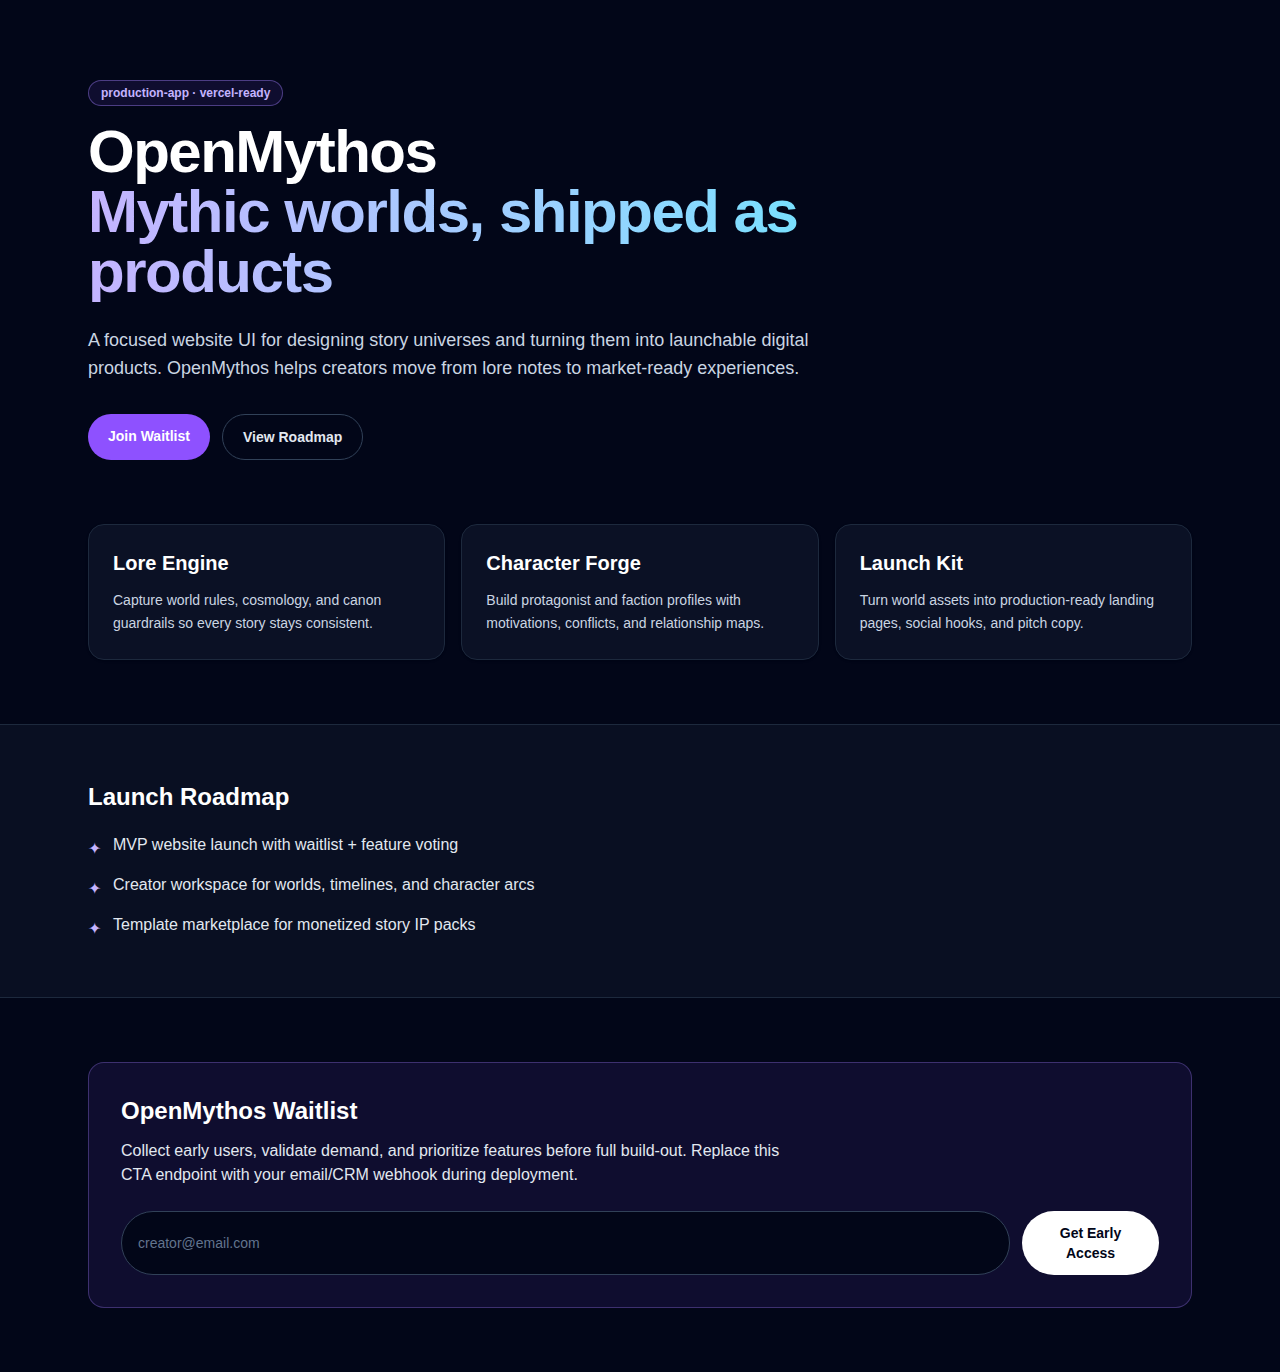
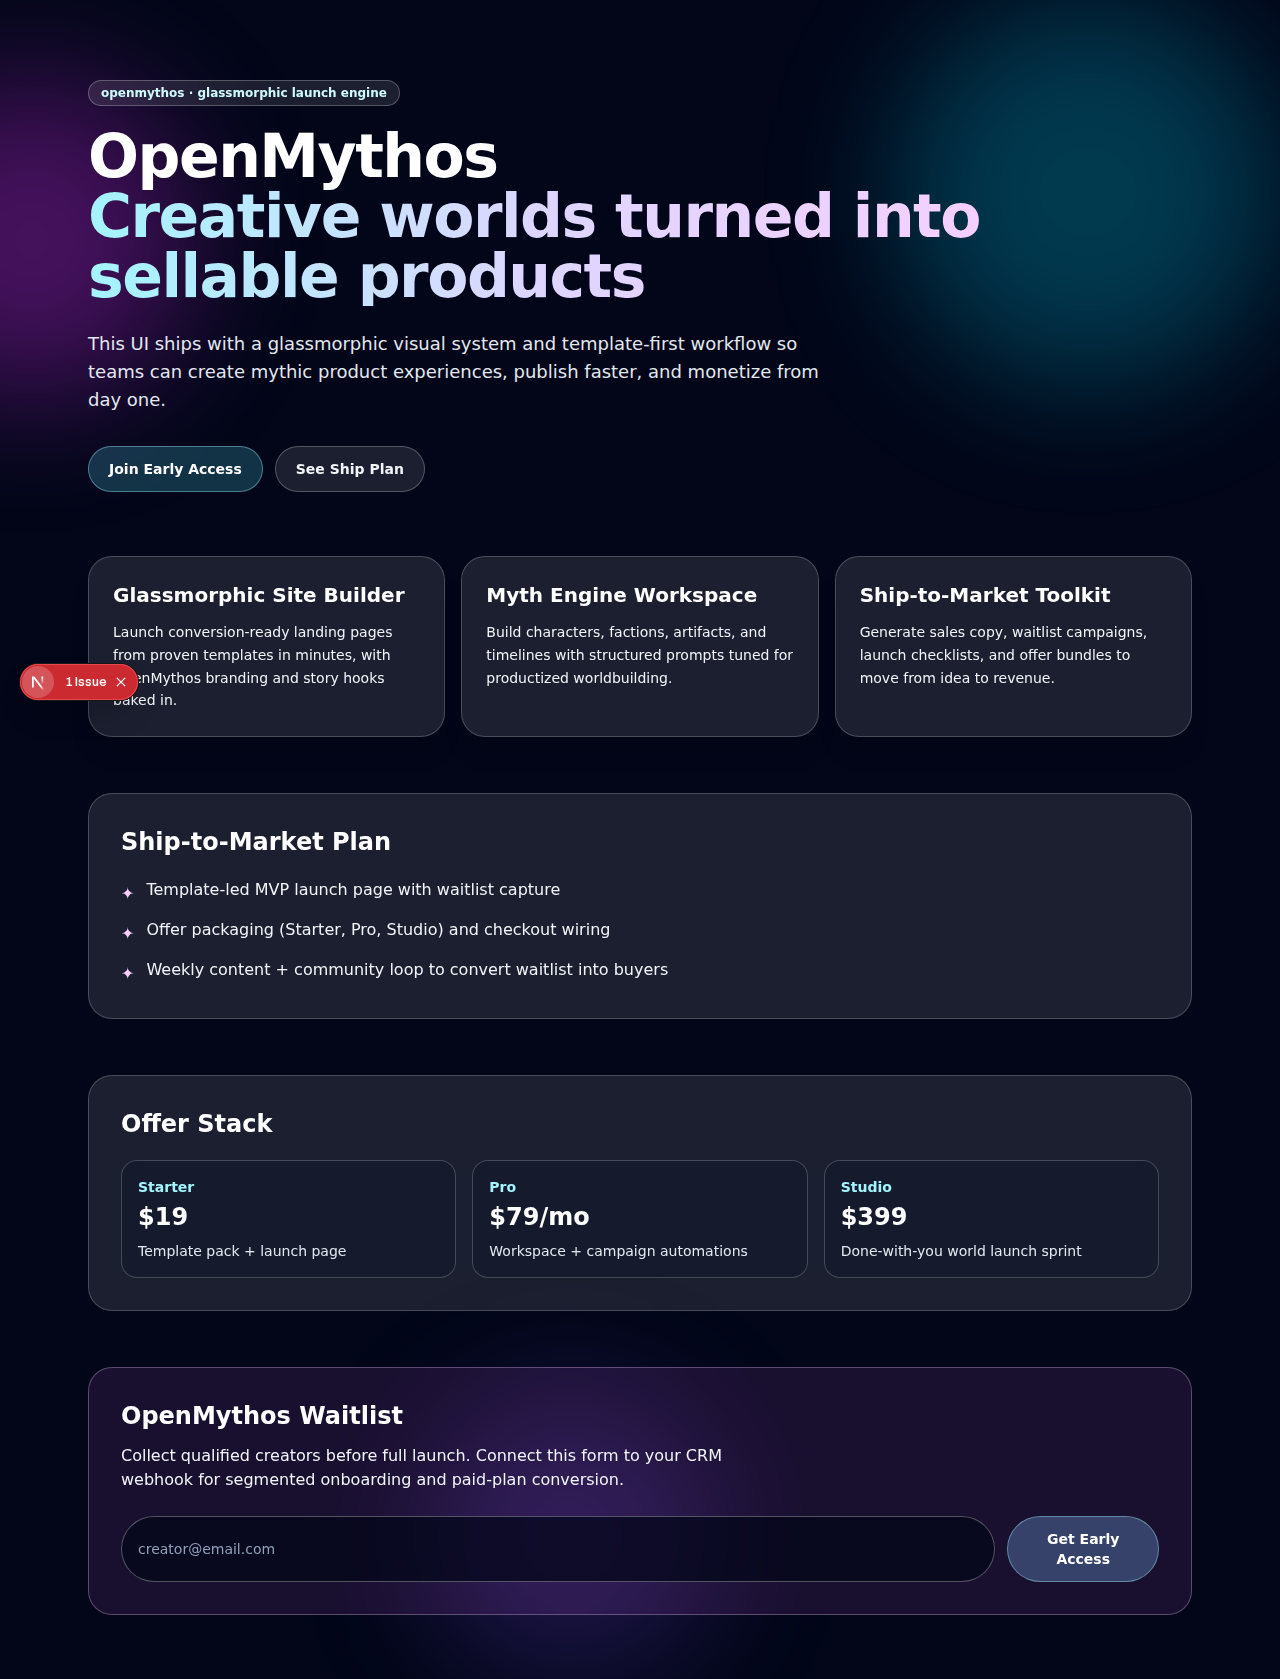
feat: harden pdf parsing guard and upgrade openmythos ship ui
Agent-Logs-Url: https://github.com/midnghtsapphire/revvel-standards/sessions/98872b5c-285b-4d9a-ac45-8e5aa6a054f4

Changed region(s): [[0.0, 0.0, 1.0, 1.0], [0.7812, 0.8571, 0.9062, 0.949]]

diff --git a/products/openmythos/app/page.tsx b/products/openmythos/app/page.tsx
@@ -1,105 +1,132 @@
-const pillars = [
+const featureCards = [
   {
-    title: "Lore Engine",
+    title: "Glassmorphic Site Builder",
     description:
-      "Capture world rules, cosmology, and canon guardrails so every story stays consistent.",
+      "Launch conversion-ready landing pages from proven templates in minutes, with OpenMythos branding and story hooks baked in.",
   },
   {
-    title: "Character Forge",
+    title: "Myth Engine Workspace",
     description:
-      "Build protagonist and faction profiles with motivations, conflicts, and relationship maps.",
+      "Build characters, factions, artifacts, and timelines with structured prompts tuned for productized worldbuilding.",
   },
   {
-    title: "Launch Kit",
+    title: "Ship-to-Market Toolkit",
     description:
-      "Turn world assets into production-ready landing pages, social hooks, and pitch copy.",
+      "Generate sales copy, waitlist campaigns, launch checklists, and offer bundles to move from idea to revenue.",
   },
 ];
 
-const roadmap = [
-  "MVP website launch with waitlist + feature voting",
-  "Creator workspace for worlds, timelines, and character arcs",
-  "Template marketplace for monetized story IP packs",
+const shipSteps = [
+  "Template-led MVP launch page with waitlist capture",
+  "Offer packaging (Starter, Pro, Studio) and checkout wiring",
+  "Weekly content + community loop to convert waitlist into buyers",
+];
+
+const monetization = [
+  { name: "Starter", price: "$19", value: "Template pack + launch page" },
+  { name: "Pro", price: "$79/mo", value: "Workspace + campaign automations" },
+  { name: "Studio", price: "$399", value: "Done-with-you world launch sprint" },
 ];
 
 export default function Home() {
   return (
-    <main className="min-h-screen bg-slate-950 text-slate-100">
-      <section className="mx-auto max-w-6xl px-6 pb-16 pt-20">
-        <p className="mb-4 inline-block rounded-full border border-violet-400/40 bg-violet-500/10 px-3 py-1 text-xs font-semibold text-violet-300">
-          production-app · vercel-ready
-        </p>
-        <h1 className="max-w-4xl text-4xl font-black tracking-tight text-white md:text-6xl">
+    <main className="relative min-h-screen overflow-hidden bg-slate-950 text-slate-100">
+      <div className="pointer-events-none absolute -left-32 top-20 h-80 w-80 rounded-full bg-fuchsia-500/30 blur-3xl" />
+      <div className="pointer-events-none absolute right-0 top-0 h-96 w-96 rounded-full bg-cyan-400/25 blur-3xl" />
+      <div className="pointer-events-none absolute bottom-0 left-1/3 h-72 w-72 rounded-full bg-violet-500/20 blur-3xl" />
+
+      <section className="relative mx-auto max-w-6xl px-6 pb-16 pt-20">
+        <div className="inline-flex rounded-full border border-white/25 bg-white/10 px-3 py-1 text-xs font-semibold text-cyan-100 backdrop-blur">
+          openmythos · glassmorphic launch engine
+        </div>
+        <h1 className="mt-5 max-w-4xl text-4xl font-black tracking-tight text-white md:text-6xl">
           OpenMythos
-          <span className="block bg-gradient-to-r from-violet-300 to-cyan-300 bg-clip-text text-transparent">
-            Mythic worlds, shipped as products
+          <span className="block bg-gradient-to-r from-cyan-200 via-violet-200 to-fuchsia-200 bg-clip-text text-transparent">
+            Creative worlds turned into sellable products
           </span>
         </h1>
-        <p className="mt-6 max-w-3xl text-lg text-slate-300">
-          A focused website UI for designing story universes and turning them into
-          launchable digital products. OpenMythos helps creators move from lore notes to
-          market-ready experiences.
+        <p className="mt-6 max-w-3xl text-lg text-slate-200">
+          This UI ships with a glassmorphic visual system and template-first workflow so teams can
+          create mythic product experiences, publish faster, and monetize from day one.
         </p>
         <div className="mt-8 flex flex-wrap gap-3">
           <a
             href="#waitlist"
-            className="rounded-full bg-violet-500 px-5 py-3 text-sm font-semibold text-white transition hover:bg-violet-400"
+            className="rounded-full border border-cyan-200/40 bg-cyan-300/20 px-5 py-3 text-sm font-semibold text-white backdrop-blur transition hover:bg-cyan-300/30"
           >
-            Join Waitlist
+            Join Early Access
           </a>
           <a
-            href="#roadmap"
-            className="rounded-full border border-slate-700 px-5 py-3 text-sm font-semibold text-slate-200 transition hover:border-slate-500"
+            href="#ship"
+            className="rounded-full border border-white/25 bg-white/10 px-5 py-3 text-sm font-semibold text-slate-100 backdrop-blur transition hover:bg-white/15"
           >
-            View Roadmap
+            See Ship Plan
           </a>
         </div>
       </section>
 
-      <section className="mx-auto grid max-w-6xl gap-4 px-6 pb-16 md:grid-cols-3">
-        {pillars.map((pillar) => (
+      <section className="relative mx-auto grid max-w-6xl gap-4 px-6 pb-14 md:grid-cols-3">
+        {featureCards.map((card) => (
           <article
-            key={pillar.title}
-            className="rounded-2xl border border-slate-800 bg-slate-900/70 p-6 shadow-sm"
+            key={card.title}
+            className="rounded-3xl border border-white/20 bg-white/10 p-6 shadow-xl backdrop-blur-md"
           >
-            <h2 className="text-xl font-bold text-white">{pillar.title}</h2>
-            <p className="mt-3 text-sm leading-relaxed text-slate-300">{pillar.description}</p>
+            <h2 className="text-xl font-bold text-white">{card.title}</h2>
+            <p className="mt-3 text-sm leading-relaxed text-slate-100">{card.description}</p>
           </article>
         ))}
       </section>
 
-      <section id="roadmap" className="border-y border-slate-800 bg-slate-900/50">
-        <div className="mx-auto max-w-6xl px-6 py-14">
-          <h2 className="text-2xl font-bold text-white">Launch Roadmap</h2>
-          <ul className="mt-5 space-y-3 text-slate-200">
-            {roadmap.map((item) => (
-              <li key={item} className="flex items-start gap-3">
-                <span className="mt-1 text-violet-300">✦</span>
-                <span>{item}</span>
+      <section id="ship" className="relative mx-auto max-w-6xl px-6 pb-14">
+        <div className="rounded-3xl border border-white/20 bg-white/10 p-8 backdrop-blur-md">
+          <h2 className="text-2xl font-bold text-white">Ship-to-Market Plan</h2>
+          <ul className="mt-5 space-y-3 text-slate-100">
+            {shipSteps.map((step) => (
+              <li key={step} className="flex items-start gap-3">
+                <span className="mt-1 text-fuchsia-200">✦</span>
+                <span>{step}</span>
               </li>
             ))}
           </ul>
         </div>
       </section>
 
-      <section id="waitlist" className="mx-auto max-w-6xl px-6 py-16">
-        <div className="rounded-2xl border border-violet-400/30 bg-violet-500/10 p-8">
+      <section className="relative mx-auto max-w-6xl px-6 pb-14">
+        <div className="rounded-3xl border border-white/20 bg-white/10 p-8 backdrop-blur-md">
+          <h2 className="text-2xl font-bold text-white">Offer Stack</h2>
+          <div className="mt-5 grid gap-4 md:grid-cols-3">
+            {monetization.map((tier) => (
+              <div
+                key={tier.name}
+                className="rounded-2xl border border-white/20 bg-slate-900/50 p-4"
+              >
+                <p className="text-sm font-semibold text-cyan-200">{tier.name}</p>
+                <p className="mt-1 text-2xl font-black text-white">{tier.price}</p>
+                <p className="mt-2 text-sm text-slate-200">{tier.value}</p>
+              </div>
+            ))}
+          </div>
+        </div>
+      </section>
+
+      <section id="waitlist" className="relative mx-auto max-w-6xl px-6 pb-16">
+        <div className="rounded-3xl border border-fuchsia-200/30 bg-fuchsia-400/10 p-8 backdrop-blur-md">
           <h2 className="text-2xl font-bold text-white">OpenMythos Waitlist</h2>
-          <p className="mt-3 max-w-2xl text-slate-200">
-            Collect early users, validate demand, and prioritize features before full build-out.
-            Replace this CTA endpoint with your email/CRM webhook during deployment.
+          <p className="mt-3 max-w-2xl text-slate-100">
+            Collect qualified creators before full launch. Connect this form to your CRM webhook for
+            segmented onboarding and paid-plan conversion.
           </p>
           <form className="mt-6 flex flex-col gap-3 sm:flex-row">
             <input
               type="email"
               aria-label="Email address"
               placeholder="creator@email.com"
-              className="w-full rounded-full border border-slate-700 bg-slate-950 px-4 py-3 text-sm text-white outline-none placeholder:text-slate-500 focus:border-violet-400"
+              className="w-full rounded-full border border-white/30 bg-slate-950/70 px-4 py-3 text-sm text-white outline-none placeholder:text-slate-400 focus:border-cyan-300"
             />
             <button
               type="submit"
               aria-label="Submit waitlist form"
-              className="rounded-full bg-white px-5 py-3 text-sm font-semibold text-slate-950 transition hover:bg-slate-200"
+              className="rounded-full border border-cyan-200/40 bg-cyan-300/20 px-5 py-3 text-sm font-semibold text-white backdrop-blur transition hover:bg-cyan-300/30"
             >
               Get Early Access
             </button>

diff --git a/tests/work-request-form-sync.test.js b/tests/work-request-form-sync.test.js
@@ -300,7 +300,11 @@ test('PDF pipeline batch dropdown exists with expected options', () => {
     'wr-auto-classify playbook guard missing pdf_batch_allowed set'
   );
   assert(
-    wf.includes('if final.get("Output Type") == "sellable-pdf" and pdf_batch_raw:'),
+    /if\s+final\.get\("Output Type"\)\s*==\s*"sellable-pdf"\s*:\s*\n\s*pdf_batch_raw\s*=\s*parse_form_section\(/.test(wf),
+    'wr-auto-classify should only parse PDF pipeline batch for sellable-pdf requests'
+  );
+  assert(
+    /if\s+final\.get\("Output Type"\)\s*==\s*"sellable-pdf"\s+and\s+pdf_batch_raw\s*:/.test(wf),
     'wr-auto-classify should only evaluate PDF pipeline batch values for sellable-pdf requests'
   );
   assert(

diff --git a/products/openmythos/GO_TO_MARKET.md b/products/openmythos/GO_TO_MARKET.md
@@ -1,0 +1,39 @@
+# Go-to-Market — OpenMythos
+
+## Positioning
+
+**OpenMythos** is a glassmorphic template-driven launch engine for creators and studios who want to turn worldbuilding concepts into sellable digital offers.
+
+## Ideal Customer
+
+- Indie worldbuilders and narrative creators
+- Small game/story studios shipping new IP
+- Creative agencies packaging lore-driven campaigns
+
+## Revenue Model
+
+| Offer | Price | Value |
+|---|---|---|
+| Starter | $19 one-time | Template pack + launch page |
+| Pro | $79/month | Myth workspace + automation prompts |
+| Studio | $399 sprint | Done-with-you ship-to-market setup |
+
+## 30-Day Launch Plan
+
+1. **Week 1:** Launch waitlist page + announce in creator communities.
+2. **Week 2:** Publish 2 showcase templates and 1 case-study landing page.
+3. **Week 3:** Sell first 25 Starter packs with time-boxed pricing.
+4. **Week 4:** Convert waitlist to Pro beta and collect testimonials.
+
+## Primary Acquisition Channels
+
+- SEO content for worldbuilding + launch templates
+- Creator communities (Reddit, Discord, X)
+- Partner cross-promos with writing/game dev tool creators
+
+## Core Metrics
+
+- Waitlist conversion rate
+- Starter pack sales volume
+- Pro trial-to-paid conversion
+- Monthly recurring revenue

diff --git a/products/openmythos/README.md b/products/openmythos/README.md
@@ -1,6 +1,6 @@
 # OpenMythos
 
-OpenMythos is a production-app website UI scaffold for launching a mythic worldbuilding product.
+OpenMythos is a production-app website UI for launching a sellable mythic worldbuilding product.
 
 ## Quick Start
 
@@ -10,22 +10,26 @@ npm install
 npm run dev
 ```
 
-Runs at: `http://localhost:3006`
+Runs at: `http://localhost:3007`
 
 ## Included UI
 
-- Hero section with OpenMythos positioning
-- Product pillars (Lore Engine, Character Forge, Launch Kit)
-- Launch roadmap section
-- Waitlist call-to-action form block
+- Glassmorphic hero + CTA
+- Template-based product pillars
+- Ship-to-market execution section
+- Offer stack (Starter / Pro / Studio)
+- Waitlist capture block for CRM/webhook wiring
 
 ## Scripts
 
-- `npm run dev` — start local dev server on port 3006
+- `npm run dev` — start local dev server on port 3007
 - `npm run build` — production build
-- `npm run start` — serve production build on port 3006
+- `npm run start` — serve production build on port 3007
 - `npm run lint` — run ESLint
 
 ## Deployment
 
-Deploy to Vercel as a standard Next.js app.
+Deploy to Vercel as a standard Next.js app. See:
+
+- [`DEPLOYMENT_GUIDE.md`](./DEPLOYMENT_GUIDE.md)
+- [`GO_TO_MARKET.md`](./GO_TO_MARKET.md)

diff --git a/products/openmythos/DEPLOYMENT_GUIDE.md b/products/openmythos/DEPLOYMENT_GUIDE.md
@@ -1,0 +1,37 @@
+# Deployment Guide — OpenMythos
+
+## Prerequisites
+
+- Node.js 20+
+- npm
+- Vercel account
+
+## Local Validation
+
+```bash
+cd products/openmythos
+npm install
+npm run lint
+npm run build
+```
+
+Run locally:
+
+```bash
+npm run dev   # http://localhost:3007
+```
+
+## Vercel Deploy
+
+1. Import `midnghtsapphire/revvel-standards` in Vercel.
+2. Set **Root Directory** to `products/openmythos`.
+3. Framework: **Next.js** (auto-detected).
+4. Deploy.
+
+## Production Checklist
+
+- [ ] `npm run lint` passes
+- [ ] `npm run build` passes
+- [ ] Waitlist form endpoint wired to CRM/webhook
+- [ ] Offer stack pricing matches live checkout links
+- [ ] Domain and analytics configured

diff --git a/products/openmythos/CHANGELOG.md b/products/openmythos/CHANGELOG.md
@@ -1,0 +1,19 @@
+# Changelog — OpenMythos
+
+All notable changes to this product will be documented in this file.
+
+## [1.1.0] — 2026-05-21
+
+### Added
+- Glassmorphic OpenMythos landing UI with template-first positioning.
+- Ship-to-market sections: launch plan, offer stack, and waitlist capture.
+- Product documentation for deployment and go-to-market execution.
+
+### Changed
+- Updated local runtime port to `3007` to avoid conflict with existing product ports.
+
+## [1.0.0] — 2026-05-21
+
+### Added
+- Initial OpenMythos Next.js product scaffold.
+- First website UI version with hero, feature pillars, roadmap, and waitlist form.
